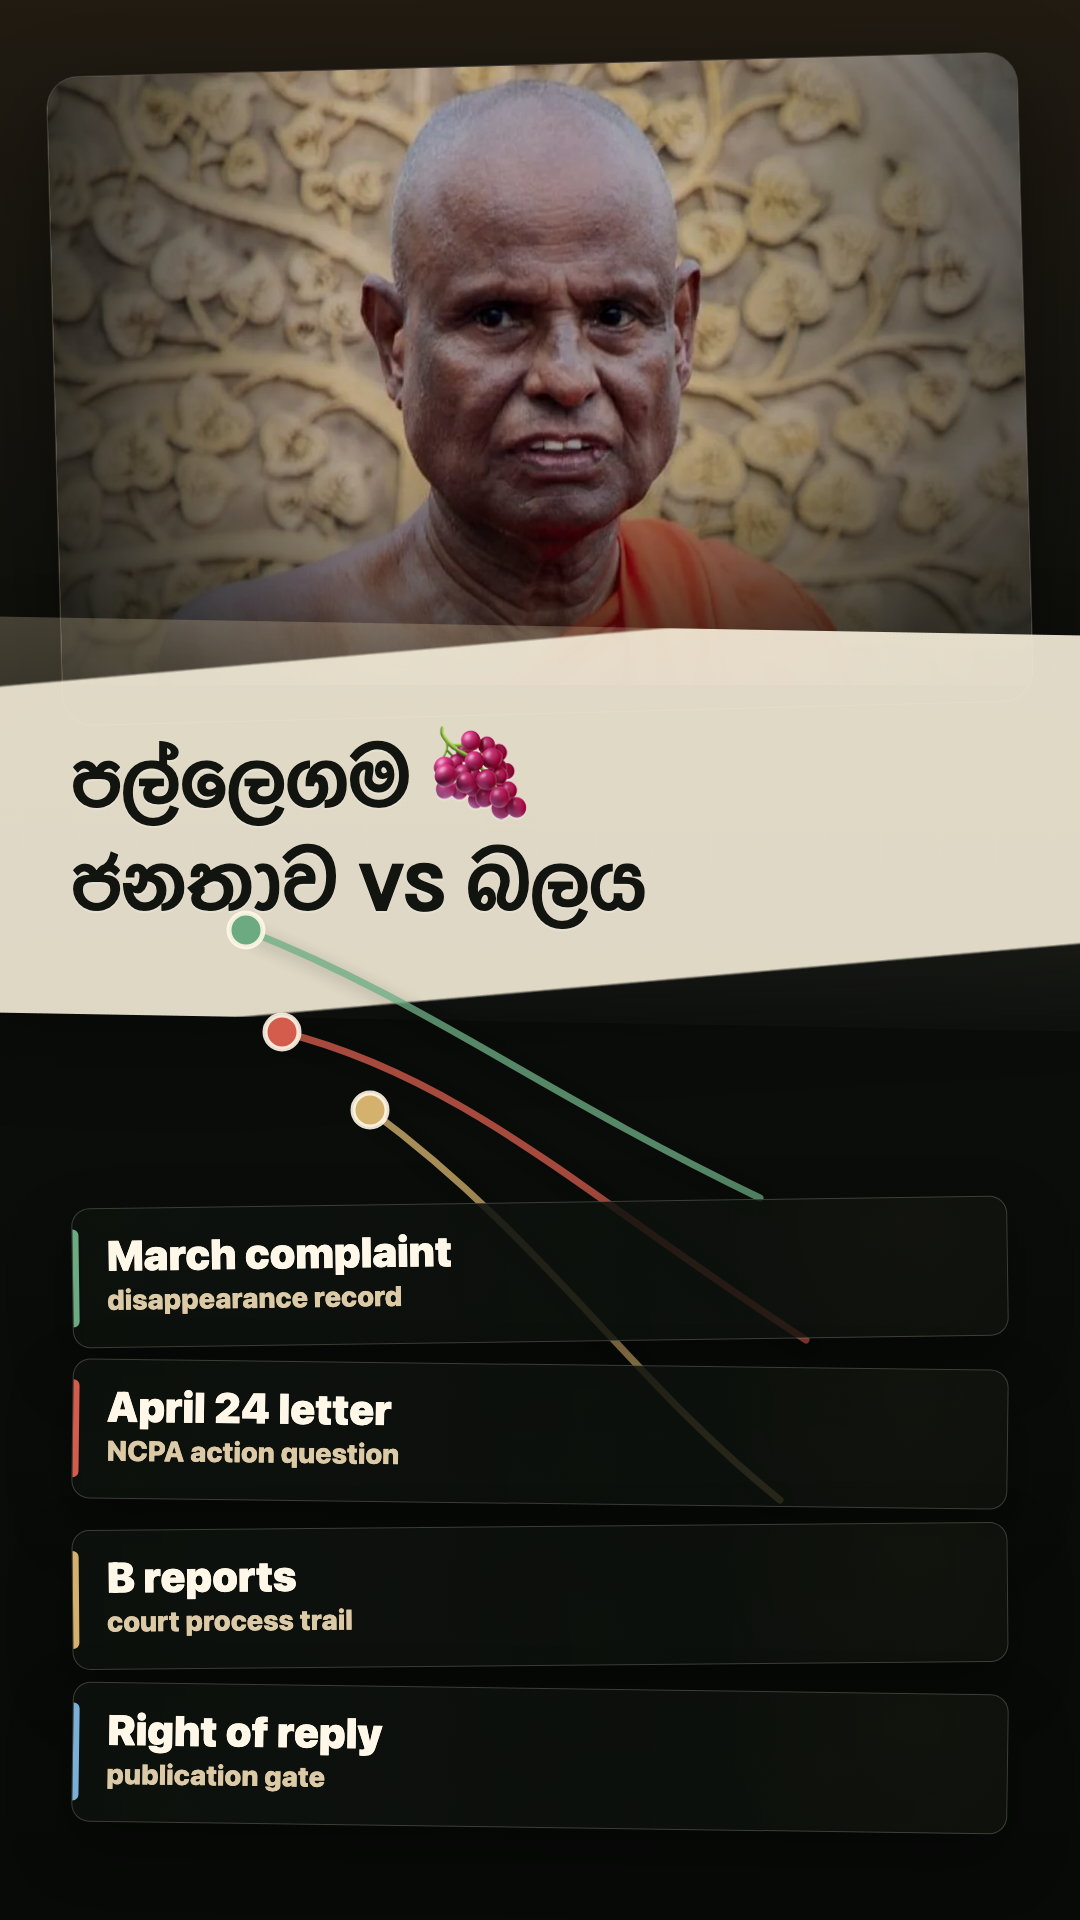
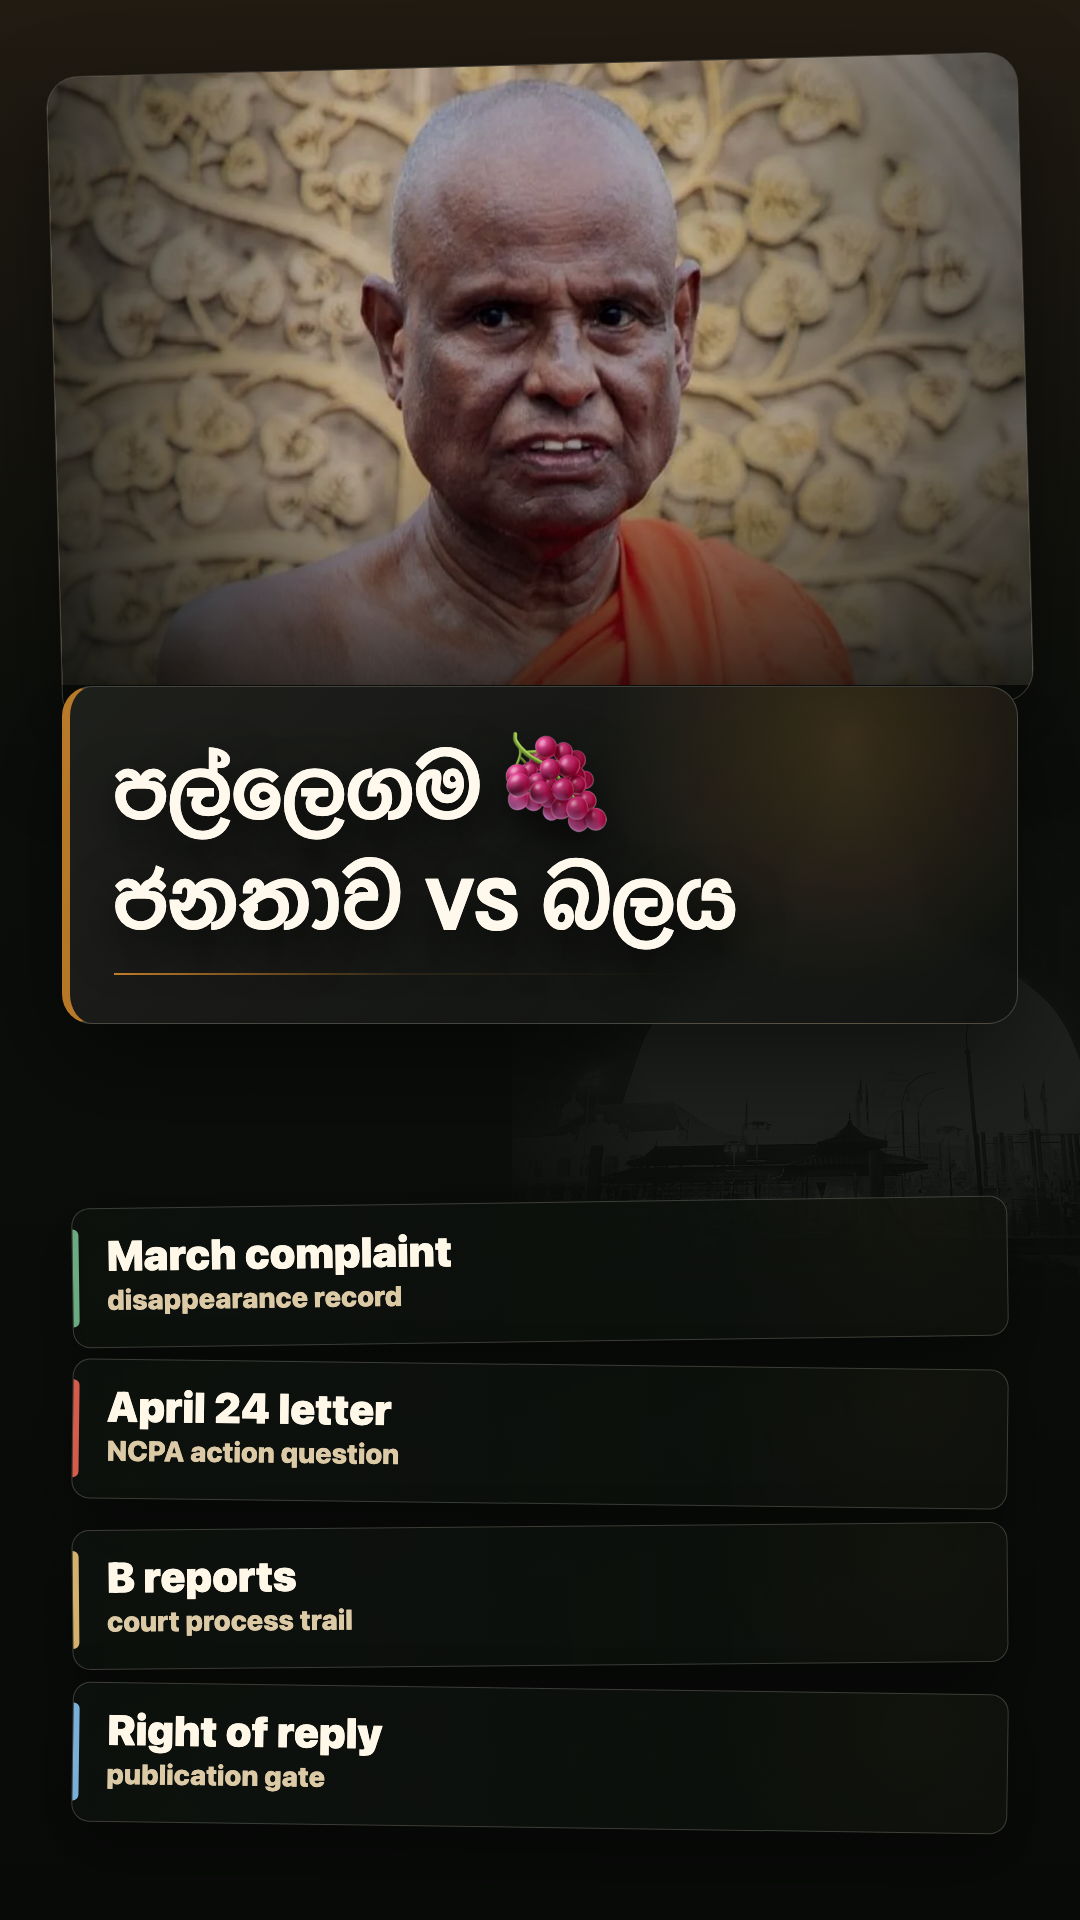
Refine Pallegama thumbnails with Ruwanwelisaya context

diff --git a/public/pallegama-hemarathana-alleged-minor-abuse/thumbnails/social-vertical-idea-2-case-rupture.html b/public/pallegama-hemarathana-alleged-minor-abuse/thumbnails/social-vertical-idea-2-case-rupture.html
@@ -27,6 +27,21 @@
         linear-gradient(180deg, #211b12 0%, #0b0e0b 40%, #080a08 100%),
         radial-gradient(circle at 20% 68%, rgba(68, 96, 69, .24), transparent 30%);
     }
+    .ruwan {
+      position: absolute;
+      right: -112px;
+      top: 510px;
+      width: 680px;
+      height: 798px;
+      z-index: -2;
+      background-image: url("../assets/ruwanwelisaya-night-context.jpg");
+      background-size: cover;
+      background-position: center bottom;
+      opacity: .09;
+      filter: grayscale(1) contrast(1.12) brightness(.86);
+      mix-blend-mode: screen;
+      mask-image: radial-gradient(circle at 52% 58%, #000 0 42%, rgba(0,0,0,.5) 56%, transparent 76%);
+    }
     .photo-panel {
       position: absolute;
       left: 54px;
@@ -59,51 +74,38 @@
         linear-gradient(90deg, rgba(7, 10, 7, .72), transparent 30%, transparent 66%, rgba(7, 10, 7, .52)),
         linear-gradient(180deg, transparent 0 58%, rgba(7, 10, 7, .7) 100%);
     }
-    .tear {
+    .title-block {
       position: absolute;
-      left: -40px;
-      top: 626px;
-      width: 1160px;
-      height: 396px;
+      left: 62px;
+      right: 62px;
+      top: 686px;
       z-index: 1;
+      padding: 42px 44px 48px;
+      border-radius: 30px;
       background:
-        linear-gradient(174deg, transparent 0 14%, rgba(246, 238, 218, .96) 14.5% 82%, transparent 82.5%),
-        linear-gradient(180deg, rgba(223, 203, 164, .28), rgba(255, 255, 255, .02));
-      filter: drop-shadow(0 24px 48px rgba(0, 0, 0, .32));
-      opacity: .94;
-      transform: rotate(1deg);
+        linear-gradient(135deg, rgba(255, 247, 231, .09), rgba(255, 247, 231, .025)),
+        radial-gradient(circle at 82% 16%, rgba(212, 138, 44, .18), transparent 30%),
+        rgba(7, 10, 7, .82);
+      border: 1px solid rgba(255, 247, 231, .2);
+      border-left: 8px solid rgba(212, 138, 44, .85);
+      box-shadow: 0 34px 96px rgba(0, 0, 0, .48);
+      backdrop-filter: blur(7px);
     }
     h1 {
-      position: absolute;
-      z-index: 3;
-      left: 72px;
-      right: 70px;
-      top: 724px;
       margin: 0;
-      color: #11140f;
-      font-size: 94px;
-      line-height: 1.1;
+      color: #fff8ec;
+      font-size: 102px;
+      line-height: 1.08;
       font-weight: 950;
       letter-spacing: 0;
       text-wrap: balance;
-      text-shadow: 0 2px 0 rgba(255, 255, 255, .22);
+      text-shadow: 0 18px 46px rgba(0, 0, 0, .72);
     }
-    .wire-map {
-      position: absolute;
-      inset: 0;
-      z-index: 2;
-      pointer-events: none;
-    }
-    .wire-map path {
-      fill: none;
-      stroke-linecap: round;
-      stroke-width: 7;
-      opacity: .78;
-      filter: drop-shadow(0 4px 8px rgba(0,0,0,.3));
-    }
-    .wire-map circle {
-      stroke: rgba(255, 247, 231, .9);
-      stroke-width: 5;
+    .title-rule {
+      width: 68%;
+      height: 2px;
+      margin-top: 24px;
+      background: linear-gradient(90deg, rgba(212, 138, 44, .92), rgba(212, 138, 44, .12), transparent);
     }
     .cards {
       position: absolute;
@@ -160,17 +162,12 @@
 </head>
 <body>
   <div class="base" aria-hidden="true"></div>
+  <div class="ruwan" aria-hidden="true"></div>
   <div class="photo-panel" aria-hidden="true"></div>
-  <div class="tear" aria-hidden="true"></div>
-  <svg class="wire-map" viewBox="0 0 1080 1920" aria-hidden="true">
-    <path d="M246 930 C424 1000 536 1090 760 1198" stroke="#6caa82"/>
-    <path d="M282 1032 C466 1078 590 1200 806 1340" stroke="#d35c4d"/>
-    <path d="M370 1110 C546 1240 630 1380 780 1500" stroke="#d4b16d"/>
-    <circle cx="246" cy="930" r="17" fill="#6caa82"/>
-    <circle cx="282" cy="1032" r="17" fill="#d35c4d"/>
-    <circle cx="370" cy="1110" r="17" fill="#d4b16d"/>
-  </svg>
-  <h1>පල්ලෙගම 🍇 ජනතාව vs බලය</h1>
+  <section class="title-block">
+    <h1>පල්ලෙගම 🍇 ජනතාව vs බලය</h1>
+    <div class="title-rule" aria-hidden="true"></div>
+  </section>
   <section class="cards" aria-hidden="true">
     <div class="card"><b>March complaint</b><span>disappearance record</span></div>
     <div class="card"><b>April 24 letter</b><span>NCPA action question</span></div>

diff --git a/public/pallegama-hemarathana-alleged-minor-abuse/thumbnails/thumbnail-options.html b/public/pallegama-hemarathana-alleged-minor-abuse/thumbnails/thumbnail-options.html
@@ -281,6 +281,23 @@
         radial-gradient(circle at 74% 44%, rgba(212, 138, 44, .2), transparent 32%);
     }
 
+    .a::after {
+      content: "";
+      position: absolute;
+      right: 330px;
+      bottom: -130px;
+      width: 470px;
+      height: 560px;
+      z-index: -1;
+      background-image: url("../assets/ruwanwelisaya-night-context.jpg");
+      background-size: cover;
+      background-position: center bottom;
+      opacity: .105;
+      filter: grayscale(1) contrast(1.18) brightness(.9);
+      mix-blend-mode: screen;
+      mask-image: radial-gradient(circle at 50% 58%, #000 0 38%, rgba(0,0,0,.62) 52%, transparent 75%);
+    }
+
     .a .brand { left: 76px; top: 66px; }
     .a .kicker { left: 76px; top: 128px; }
     .a .title {
@@ -478,8 +495,6 @@
         <div class="frame">
           <div class="thumb a" style="--photo: url('../assets/pallegama-hemarathana-context.webp')">
             <div class="photo"></div>
-            <div class="brand">The Analyst Dossier</div>
-            <div class="kicker">Civic accountability</div>
             <h3 class="title">පල්ලෙගම 🍇 ජනතාව vs බලය</h3>
             <p class="subtitle">A child-protection allegation. A religious office. A public test of equal law.</p>
             <p class="si-subtitle">ළමා ආරක්ෂණ චෝදනාවක්. ආගමික තනතුරක්. සමාන නීතිය පිළිබඳ පොදු පරීක්ෂාවක්.</p>

diff --git a/docs/handoff/pallegama/thumbnail-idea-rounds-2026-05-25.md b/docs/handoff/pallegama/thumbnail-idea-rounds-2026-05-25.md
@@ -76,3 +76,14 @@ Use **Option A - Dark Sermon Portrait** for the first live article thumbnail if 
   - Uses a tilted case-photo panel, torn paper title band, and evidence-thread routes.
   - Keeps the Sinhala title and four source-trace cards.
   - No The Analyst branding.
+
+## 2026-05-26 Visual Refinement
+
+- **Horizontal primary thumbnail**
+  - Removed the visible `The Analyst dossier` and `Civic accountability` labels from Option A output.
+  - Added a very low-opacity Ruwanwelisaya night layer as religious/institutional context, not a second subject.
+
+- **Vertical social Idea 2**
+  - Removed the three connector wires.
+  - Replaced the torn-paper header with a darker focused title block.
+  - Added a very low-opacity Ruwanwelisaya layer behind the title/cards.